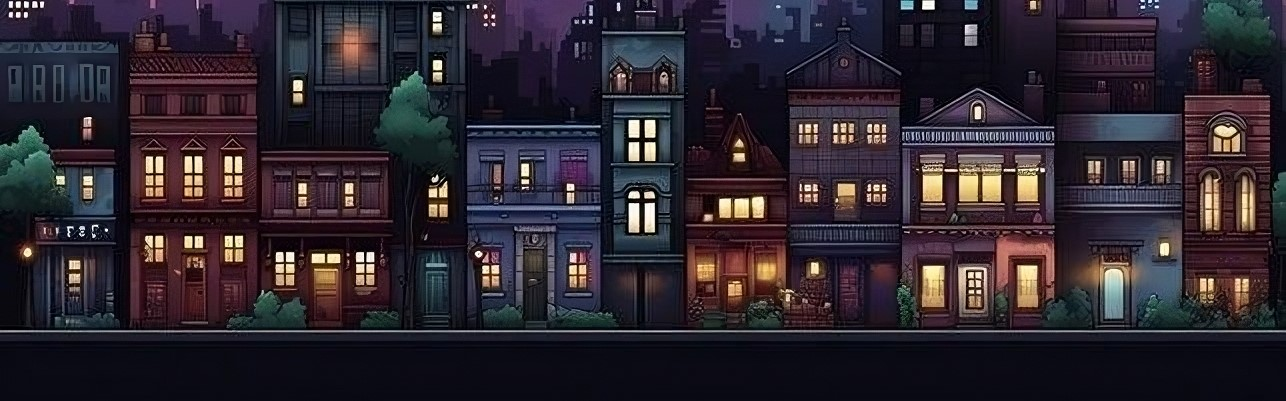
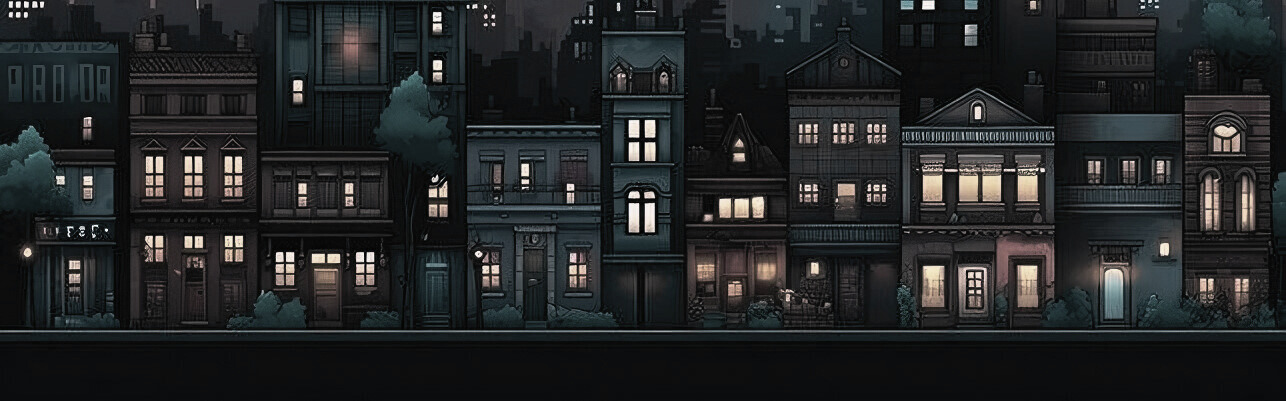
city sprite huhu

diff --git a/src/EOD/scenes/SceneBuilder.java b/src/EOD/scenes/SceneBuilder.java
@@ -104,9 +104,9 @@ public class SceneBuilder extends JPanel{
     public void createWorldScene() {
         if (world.getTitle().equals("world1")) {
             sceneList = new ImageList();
-            sceneList.add(new ImageIcon(getClass().getResource("/world1_assets/forest.png")).getImage(), 0);
-            sceneList.add(new ImageIcon(getClass().getResource("/world1_assets/forest.png")).getImage(), 1);
-            sceneList.add(new ImageIcon(getClass().getResource("/world1_assets/forest.png")).getImage(), 2);
+            sceneList.add(new ImageIcon(getClass().getResource("/world1_assets/city1.jpg")).getImage(), 0);
+            sceneList.add(new ImageIcon(getClass().getResource("/world1_assets/city2.jpg")).getImage(), 1);
+            sceneList.add(new ImageIcon(getClass().getResource("/world1_assets/city3.jpg")).getImage(), 2);
             sceneList.add(new ImageIcon(getClass().getResource("/world1_assets/graveyard.jpg")).getImage(), 3); // added scene for inside the minion portal background :> -z
             sceneList.add(new ImageIcon(getClass().getResource("/world1_assets/pillars.png")).getImage(), 4); // added scene for inside the mini boss portal background :> -z
             sceneList.add(new ImageIcon(getClass().getResource("/shop_assets/shopbg.png")).getImage(), 5); // added shop pop up - sheen
